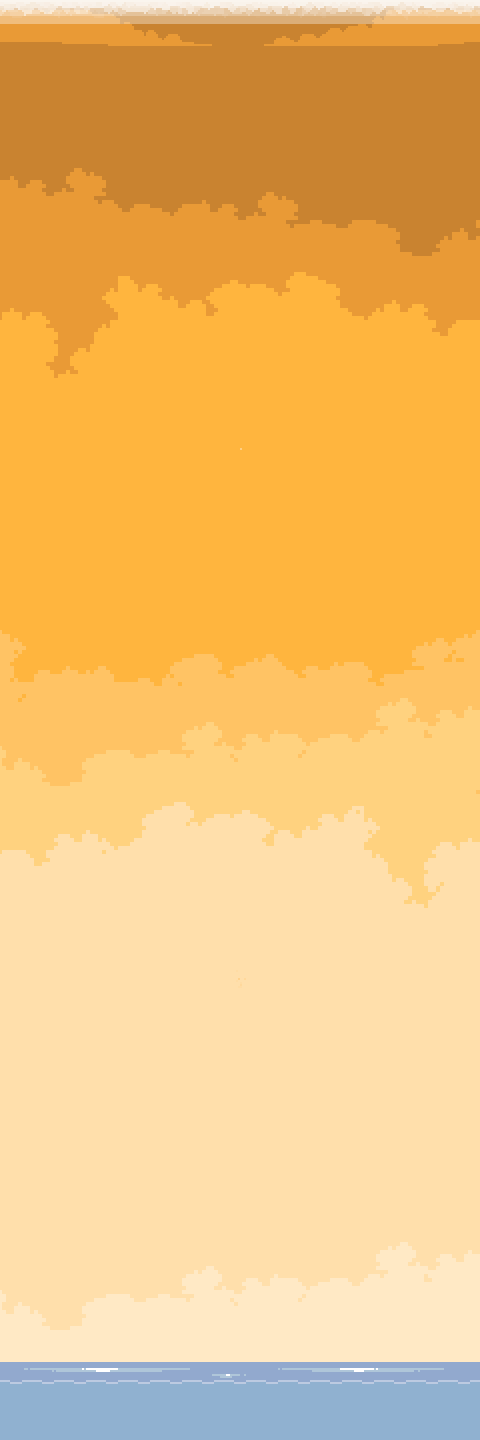
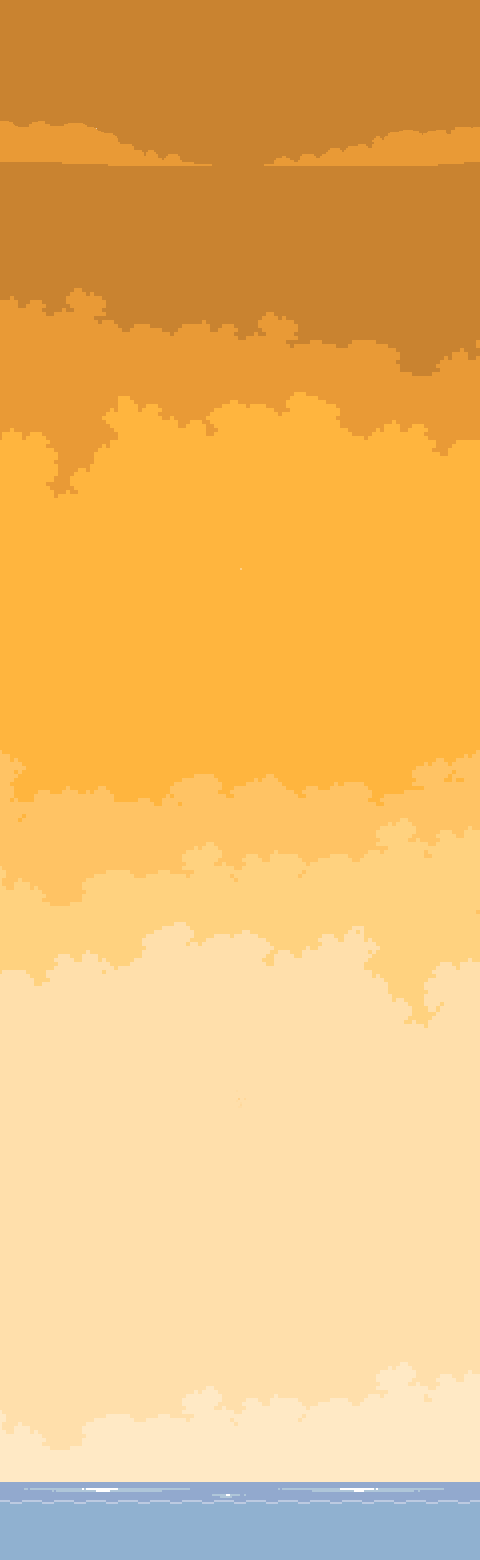
added winning props and enhanced props

diff --git a/physics.js b/physics.js
@@ -52,19 +52,19 @@ function checkBorderBounce(player) {
         switch (player.currentSprite) {
             case 'jump-right':
                 player.currentSprite = 'jump-left'
-                console.log('wtf1')
+                //console.log('wtf1')
                 break;
             case 'jump-left':
                 player.currentSprite = 'jump-right'
-                console.log('wtf2')
+                //console.log('wtf2')
                 break;
             case 'fall-right':
                 player.currentSprite = 'fall-left'
-                console.log('wtf1')
+                //console.log('wtf1')
                 break;
             case 'fall-left':
                 player.currentSprite = 'fall-right'
-                console.log('wtf2')
+                //console.log('wtf2')
                 break;
         }
     }
@@ -112,7 +112,7 @@ function _handlePlatformCollision(player) {
 }
 
 function checkWallHeadbutt(player, platform) {
-    const playerTop = player.position.y - player.velocity.y - 6
+    const playerTop = player.position.y - player.velocity.y 
     const playerMiddle = player.position.x + player.width / 2
     const playerBottom = player.collider.position.y + player.collider.height
 
@@ -147,7 +147,7 @@ function checkWallHeadbutt(player, platform) {
 }
 
 function _handleWallHeadbutt(player) {
-    console.log('did');
+    //console.log('did');
     if (player.isShovedY === false) {
         player.velocity.y *= -0.4
         playAudioOnce('wallSfx')
@@ -159,9 +159,9 @@ function _handleWallHeadbutt(player) {
 
 function checkWallCollide(player, platform) {
 
-    const playerRight = player.position.x + player.width
-    const playerLeft = player.position.x
-    const playerTop = player.position.y - player.velocity.y - 6
+    const playerRight = player.position.x + player.width - 5
+    const playerLeft = player.position.x + 5
+    const playerTop = player.position.y - player.velocity.y
     const playerBottom = player.position.y + player.height
 
     const platformBorderLeft = platform.position.x
@@ -226,24 +226,24 @@ function checkYWallCollide(player, playerTop, playerBottom, platformBorderTop, p
 function _handleWallCollide(player) {
     if (player.isShovedX === false && !player.isOnPlatform) {
         playAudioOnce('wallSfx')
-        player.velocity.x *= -1
-        console.log('miki');
+        player.velocity.x *= -0.3
+        //console.log('miki');
         switch (player.currentSprite) {
             case 'jump-right':
                 player.currentSprite = 'jump-left'
-                console.log('wtf1')
+                //console.log('wtf1')
                 break;
             case 'jump-left':
                 player.currentSprite = 'jump-right'
-                console.log('wtf2')
+                //console.log('wtf2')
                 break;
             case 'fall-right':
                 player.currentSprite = 'fall-left'
-                console.log('wtf1')
+                //console.log('wtf1')
                 break;
             case 'fall-left':
                 player.currentSprite = 'fall-right'
-                console.log('wtf2')
+                //console.log('wtf2')
                 break;
         }
         player.isShovedX = true
@@ -274,7 +274,7 @@ function checkPunched(player) {
                         && rightPunchColliderX > playerColliderX)
                     && rightPunchColliderY > playerColliderY - 10
                     && rightPunchColliderY < playerColliderY + playerHeight) {
-                    console.log('punched from my left')
+                    //console.log('punched from my left')
                     getPunched(player, 'right')
                 }
             } else if (leftPunchCollider.isActive) {
@@ -284,7 +284,7 @@ function checkPunched(player) {
                         && leftPunchColliderX + punchWidth < playerColliderX + playerWidth)
                     && leftPunchColliderY > playerColliderY - 10
                     && leftPunchColliderY < playerColliderY + playerHeight) {
-                    console.log('punched from my right')
+                    //console.log('punched from my right')
                     getPunched(player, 'left')
                 }
             }

diff --git a/sceneHandler.js b/sceneHandler.js
@@ -10,7 +10,7 @@ function sceneHandler(){
                 setTimeout(() => { switchingScene = false;
                 
                 }, 100);
-                console.log(currentScene)
+                //console.log(currentScene)
                 break
             case scene2: 
                 currentScene = scene3
@@ -19,7 +19,7 @@ function sceneHandler(){
                 setTimeout(() => { switchingScene = false;
                     
                 }, 100);
-                console.log(currentScene)
+                //console.log(currentScene)
                 break
             case scene3: 
                 currentScene = scene4
@@ -30,7 +30,7 @@ function sceneHandler(){
                 setTimeout(() => { switchingScene = false;
                     
                 }, 100);
-                console.log(currentScene)
+                //console.log(currentScene)
                 break
             case scene4: 
                 currentScene = scene5
@@ -41,7 +41,7 @@ function sceneHandler(){
                 setTimeout(() => { switchingScene = false;
                     
                 }, 100);
-                console.log(currentScene)
+                //console.log(currentScene)
                 break
             case scene5: 
                 currentScene = scene6
@@ -54,7 +54,7 @@ function sceneHandler(){
                 setTimeout(() => { switchingScene = false;
                     
                 }, 100);
-                console.log(currentScene)
+                //console.log(currentScene)
                 break
             case scene6:
                 gravity = 0.7
@@ -85,7 +85,7 @@ function sceneHandler(){
 //                     switchingScene = true;
 //                     setTimeout(() => { switchingScene = false;
 //                     }, 10);
-//                     console.log(currentScene)
+//                     //console.log(currentScene)
 //                     break
 //                 case scene5:
 //                     currentScene = scene4
@@ -96,7 +96,7 @@ function sceneHandler(){
 //                     setTimeout(() => { switchingScene = false;
                         
 //                     }, 10);
-//                     console.log(currentScene)
+//                     //console.log(currentScene)
 //                     break
 //                 case scene4: 
 //                     currentScene = scene3
@@ -108,7 +108,7 @@ function sceneHandler(){
 //                     setTimeout(() => { switchingScene = false;
                         
 //                     }, 10);
-//                     console.log(currentScene)
+//                     //console.log(currentScene)
 //                     break
 //                 case scene3: 
 //                     currentScene = scene2
@@ -117,7 +117,7 @@ function sceneHandler(){
 //                     setTimeout(() => { switchingScene = false;
                         
 //                     }, 10);
-//                     console.log(currentScene)
+//                     //console.log(currentScene)
 //                     break
 //                 case scene2: 
 //                     currentScene = scene1
@@ -127,7 +127,7 @@ function sceneHandler(){
 //                     setTimeout(() => { switchingScene = false;
                         
 //                     }, 10);
-//                     console.log(currentScene)
+//                     //console.log(currentScene)
 //                     break
 //             }
 //         }

diff --git a/level-data.js b/level-data.js
@@ -271,10 +271,10 @@ const beach = new Level({
     background : new Sprite({
         position: {
             x: 0,
-            y: -720
+            y: -840
         },
         width: 480,
-        height: 1440,
+        height: 1560,
         imgSrc: './img/Level-Assets/Background/level-beach-bg.png',
         borderY: 1,
         borderWidth: 1,
@@ -358,8 +358,8 @@ const beach = new Level({
         isWall: true 
     }), new Sprite({
         position: {
-            x: 185,
-            y: 100 - 720
+            x: 165,
+            y: -600
         },
         width: 48,
         height: 48,
@@ -370,7 +370,7 @@ const beach = new Level({
     }), new Sprite({
         position: {
             x: 290,
-            y: 330 - 720
+            y: 320 - 720
         },
         width: 48,
         height: 48,
@@ -380,8 +380,8 @@ const beach = new Level({
         isWall: true 
     }), new Sprite({
         position: {
-            x: 0,
-            y: 220 - 720
+            x: -30,
+            y: -500
         },
         width: 112,
         height: 48,
@@ -392,14 +392,47 @@ const beach = new Level({
     }),new Sprite({
         position: {
             x: 280,
-            y: -30 - 720
+            y: -600
         },
         width: 16,
         height: 112,
         imgSrc: './img/Level-Assets/Platforms/Beach/beach-wall.png',
         borderY : 1,
         borderWidth: 1,
-        isWall: true })]
+        isWall: true 
+    }),new Sprite({
+        position: {
+            x: 280,
+            y: -815
+        },
+        width: 16,
+        height: 112,
+        imgSrc: './img/Level-Assets/Platforms/Beach/beach-wall.png',
+        borderY : 1,
+        borderWidth: 1,
+        isWall: true 
+    }),new Sprite({
+        position: {
+            x: 20,
+            y: -562
+        },
+        width: 90,
+        height: 69,
+        imgSrc: './img/Level-Assets/Props/beach/planktower.png',
+        borderY : 1,
+        borderWidth: 1,
+        isWall: true 
+    }),,new Sprite({
+        position: {
+            x: 58,
+            y: -562 -92
+        },
+        width: 36,
+        height: 92,
+        imgSrc: './img/Level-Assets/Props/beach/flag1.png',
+        borderY : 1,
+        borderWidth: 1,
+        isActive: false })]
 })
 
 /*

diff --git a/index.js b/index.js
@@ -29,7 +29,7 @@ function animate(){
         window.requestAnimationFrame(animate)
         //update current scene
         // currentPlayers.forEach(player => {
-        // console.log(currentPlayers);
+        // //console.log(currentPlayers);
 
         currentScene.players = currentPlayers
         handleCamera(currentPlayers[mySocketId])
@@ -73,12 +73,12 @@ function endGame(){
 
 function handleCamera(player){
     let scroll = 0
-    if(player.position.y < 360 && player.position.y > -461){
+    if(player.position.y < 358 && player.position.y > -581){
         scroll = Math.floor(player.velocity.y / 1.2)
         c.translate(0,(-scroll))
-    }else if(player.position.y > 360){
+    }else if(player.position.y > 358){
         c.setTransform(1, 0, 0, 1, 0, 0);
-    } else if(player.position.y < -461){
+    } else if(player.position.y < -581){
         c.save();
         c.restore()
     }

diff --git a/socket.js b/socket.js
@@ -4,20 +4,20 @@ const currentPlayers = {}
 
 socket.on("connect", () => {
     mySocketId = socket.id
-    // console.log(mySocketId);
+    // //console.log(mySocketId);
 })
 
 
 socket.on('serverToClient', serverPlayers => {
-    // console.log(serverPlayers);
-    // console.log(serverPlayers);
+    // //console.log(serverPlayers);
+    // //console.log(serverPlayers);
     playersFound = {}
     if(currentPlayers[mySocketId] === undefined && player){
         currentPlayers[mySocketId] = player;
     }
     for(let id in serverPlayers){
         if(currentPlayers[id] === undefined && id !== mySocketId){
-            // console.log(serverPlayers[id]);
+            // //console.log(serverPlayers[id]);
             // currentPlayers[id].animalType = serverPlayers[id].animalType
             currentPlayers[id] = createPlayer(serverPlayers[id].animalType)
         }

diff --git a/player-controller.js b/player-controller.js
@@ -84,7 +84,7 @@ function keyHandlerFunc(player){
     }
     if(keyPressed[32]){
         let dt = now - player.lastAttack
-        // console.log(dt);
+        // //console.log(dt);
         if(dt > 1000){
             if(lastKey !== 'space'){
                 player.punch.right.currentFrame = 0
